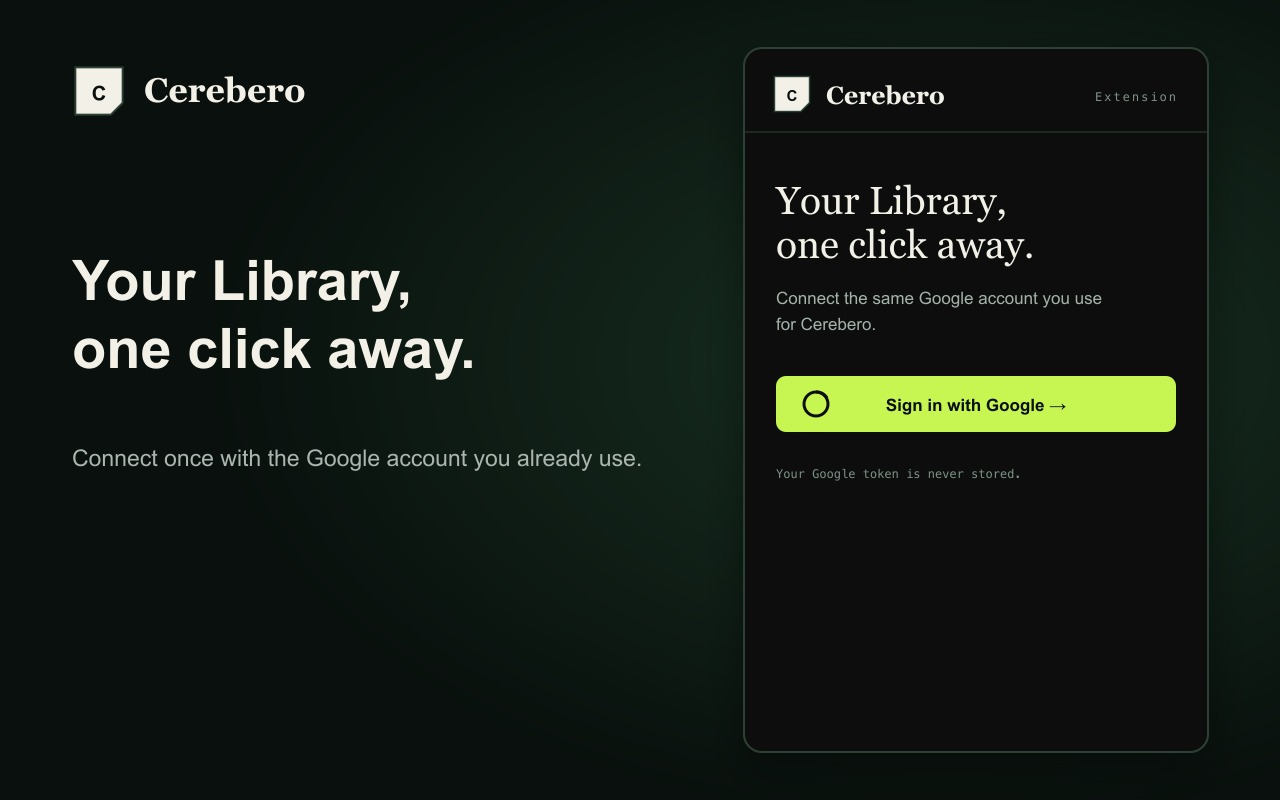
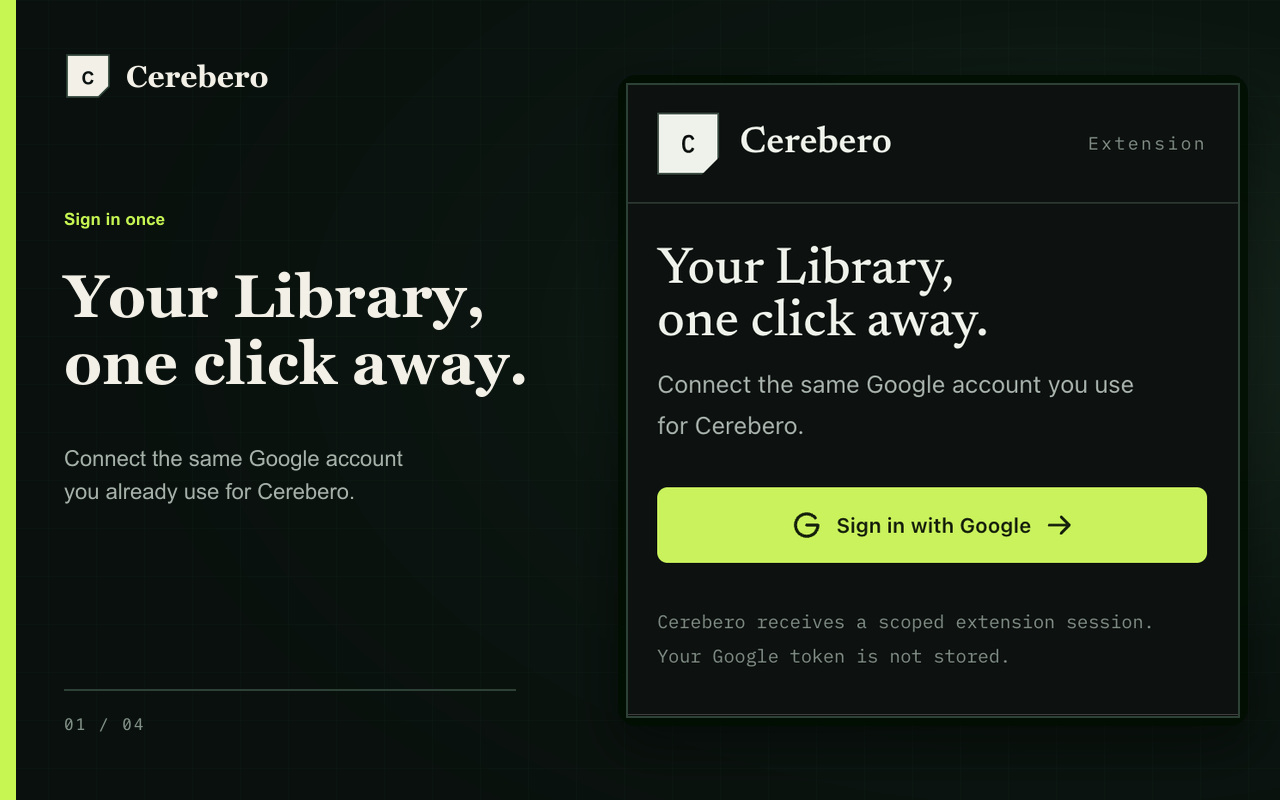
updated ss

diff --git a/apps/extension/scripts/generate-assets.ts b/apps/extension/scripts/generate-assets.ts
@@ -7,6 +7,7 @@ import sharp from 'sharp'
 const extensionRoot = resolve(dirname(fileURLToPath(import.meta.url)), '..')
 const faviconPath = resolve(extensionRoot, '../web/public/favicon.svg')
 const brandingDirectory = resolve(extensionRoot, 'assets/branding')
+const storeSourceDirectory = resolve(extensionRoot, 'assets/store-sources')
 const iconDirectory = resolve(extensionRoot, 'public/icon')
 const screenshotDirectory = resolve(extensionRoot, 'store-assets/screenshots')
 const storeAssetDirectory = resolve(extensionRoot, 'store-assets')
@@ -40,126 +41,162 @@ function brandMark(x: number, y: number, size: number): string {
   `
 }
 
-function screenshotShell({
+type StoreScreenshot = {
+  eyebrow: string
+  headline: [string, string]
+  output: string
+  source: string
+  subline: [string, string]
+}
+
+const storeScreenshots: StoreScreenshot[] = [
+  {
+    eyebrow: 'Sign in once',
+    headline: ['Your Library,', 'one click away.'],
+    output: 'cerebero-store-1.jpg',
+    source: 'signed-out.png',
+    subline: [
+      'Connect the same Google account',
+      'you already use for Cerebero.',
+    ],
+  },
+  {
+    eyebrow: 'Capture with context',
+    headline: ['Keep the page.', 'Keep the context.'],
+    output: 'cerebero-store-2.jpg',
+    source: 'capture.png',
+    subline: [
+      'Review the title and add a note',
+      'before it reaches your Library.',
+    ],
+  },
+  {
+    eyebrow: 'Done without leaving the tab',
+    headline: ['Saved now.', 'Ready later.'],
+    output: 'cerebero-store-3.jpg',
+    source: 'saved.png',
+    subline: ['Open the Item in Cerebero,', 'or keep moving through your day.'],
+  },
+  {
+    eyebrow: 'Clear by design',
+    headline: ['Only saves', 'what you choose.'],
+    output: 'cerebero-store-4.jpg',
+    source: 'unsupported.png',
+    subline: [
+      'Browser-internal pages are rejected',
+      'before anything is sent.',
+    ],
+  },
+]
+
+function storeScreenshotBackdrop({
+  eyebrow,
   headline,
-  popup,
+  index,
+  screenshot,
   subline,
-}: {
-  headline: string[]
-  popup: string
-  subline: string
+}: Omit<StoreScreenshot, 'output' | 'source'> & {
+  index: number
+  screenshot: { height: number; width: number; x: number; y: number }
 }): string {
   return `
     <svg xmlns="http://www.w3.org/2000/svg" width="1280" height="800" viewBox="0 0 1280 800">
       <defs>
-        <radialGradient id="glow" cx="74%" cy="45%" r="58%">
-          <stop offset="0" stop-color="#183122" />
+        <radialGradient id="glow" cx="83%" cy="42%" r="76%">
+          <stop offset="0" stop-color="#17291f" />
+          <stop offset="0.55" stop-color="#0b1510" />
           <stop offset="1" stop-color="${palette.canvas}" />
         </radialGradient>
+        <pattern id="grid" width="48" height="48" patternUnits="userSpaceOnUse">
+          <path d="M 48 0 L 0 0 0 48" fill="none" stroke="#274035" stroke-width="1" opacity="0.16" />
+        </pattern>
         <filter id="shadow" x="-30%" y="-30%" width="160%" height="160%">
-          <feDropShadow dx="0" dy="18" stdDeviation="22" flood-color="#000" flood-opacity="0.38" />
+          <feDropShadow dx="0" dy="20" stdDeviation="24" flood-color="#000" flood-opacity="0.48" />
         </filter>
       </defs>
       <rect width="1280" height="800" fill="url(#glow)" />
-      ${brandMark(72, 64, 54)}
-      <text x="144" y="102" fill="${palette.primary}" font-family="Georgia, serif"
-        font-size="34" font-weight="700">Cerebero</text>
-      ${headline
-        .map(
-          (line, index) =>
-            `<text x="72" y="${300 + index * 68}" fill="${palette.primary}" font-family="Arial, Helvetica, sans-serif" font-size="56" font-weight="700">${line}</text>`,
-        )
-        .join('')}
-      <text x="72" y="${330 + headline.length * 68}" fill="#abb6af"
-        font-family="Arial, Helvetica, sans-serif" font-size="23" font-weight="500">${subline}</text>
-      <g filter="url(#shadow)">
-        <rect x="744" y="48" width="464" height="704" rx="18" fill="${palette.canvas}"
-          stroke="${palette.stroke}" stroke-width="2" />
-        ${brandMark(772, 74, 40)}
-        <text x="826" y="104" fill="${palette.primary}" font-family="Georgia, serif"
-          font-size="25" font-weight="700">Cerebero</text>
-        <text x="1176" y="101" fill="${palette.muted}" font-family="monospace"
-          font-size="12" text-anchor="end" letter-spacing="2">Extension</text>
-        <line x1="744" y1="132" x2="1208" y2="132" stroke="${palette.stroke}" />
-        ${popup}
-      </g>
+      <rect width="1280" height="800" fill="url(#grid)" />
+      <path d="M 0 0 H 16 V 800 H 0 Z" fill="${palette.accent}" />
+      ${brandMark(64, 52, 48)}
+      <text x="126" y="87" fill="${palette.primary}" font-family="Georgia, serif"
+        font-size="30" font-weight="700">Cerebero</text>
+      <text x="64" y="225" fill="${palette.accent}" font-family="Arial, Helvetica, sans-serif"
+        font-size="17" font-weight="700">${eyebrow}</text>
+      <text x="64" y="317" fill="${palette.primary}" font-family="Georgia, serif"
+        font-size="60" font-weight="600">${headline[0]}</text>
+      <text x="64" y="384" fill="${palette.primary}" font-family="Georgia, serif"
+        font-size="60" font-weight="600">${headline[1]}</text>
+      <text x="64" y="466" fill="#a7b2ab" font-family="Arial, Helvetica, sans-serif"
+        font-size="22">${subline[0]}</text>
+      <text x="64" y="499" fill="#a7b2ab" font-family="Arial, Helvetica, sans-serif"
+        font-size="22">${subline[1]}</text>
+      <line x1="64" y1="690" x2="516" y2="690" stroke="${palette.stroke}" stroke-width="2" />
+      <text x="64" y="730" fill="${palette.muted}" font-family="monospace" font-size="16"
+        letter-spacing="2">0${index + 1} / 04</text>
+      <rect x="${screenshot.x - 10}" y="${screenshot.y - 10}" width="${screenshot.width + 20}"
+        height="${screenshot.height + 20}" rx="18" fill="#050806" opacity="0.85" filter="url(#shadow)" />
     </svg>
   `
 }
 
-function signedOutPopup(): string {
+function screenshotBorder({
+  height,
+  width,
+  x,
+  y,
+}: {
+  height: number
+  width: number
+  x: number
+  y: number
+}): string {
   return `
-    <text x="776" y="214" fill="${palette.primary}" font-family="Georgia, serif"
-      font-size="39" font-weight="500">Your Library,</text>
-    <text x="776" y="258" fill="${palette.primary}" font-family="Georgia, serif"
-      font-size="39" font-weight="500">one click away.</text>
-    <text x="776" y="304" fill="#a6b1aa" font-family="Arial, Helvetica, sans-serif"
-      font-size="17">Connect the same Google account you use</text>
-    <text x="776" y="330" fill="#a6b1aa" font-family="Arial, Helvetica, sans-serif"
-      font-size="17">for Cerebero.</text>
-    <rect x="776" y="376" width="400" height="56" rx="10" fill="${palette.accent}" />
-    <circle cx="816" cy="404" r="12" fill="none" stroke="${palette.canvas}" stroke-width="3" />
-    <path d="M 816 392 A 12 12 0 0 1 827 398" fill="none" stroke="${palette.canvas}" stroke-width="3" />
-    <text x="976" y="411" fill="${palette.canvas}" font-family="Arial, Helvetica, sans-serif"
-      font-size="17" font-weight="700" text-anchor="middle">Sign in with Google  →</text>
-    <text x="776" y="478" fill="${palette.muted}" font-family="monospace" font-size="12">
-      Your Google token is never stored.
-    </text>
+    <svg xmlns="http://www.w3.org/2000/svg" width="1280" height="800" viewBox="0 0 1280 800">
+      <rect x="${x - 1}" y="${y - 1}" width="${width + 2}" height="${height + 2}"
+        fill="none" stroke="${palette.stroke}" stroke-width="2" />
+    </svg>
   `
 }
 
-function capturePopup(): string {
-  return `
-    <rect x="776" y="166" width="40" height="40" rx="9" fill="${palette.canvasSoft}" />
-    <path d="M 788 186 L 795 179 A 6 6 0 0 1 804 188 L 796 196 A 6 6 0 0 1 787 187"
-      fill="none" stroke="#aeb9b2" stroke-width="2.5" stroke-linecap="round" />
-    <text x="832" y="190" fill="${palette.primary}" font-family="Georgia, serif"
-      font-size="30" font-weight="500">Save this page.</text>
-    <text x="832" y="212" fill="${palette.muted}" font-family="monospace" font-size="11">
-      https://example.com/useful-essay
-    </text>
-    <text x="776" y="254" fill="${palette.primary}" font-family="Arial, Helvetica, sans-serif"
-      font-size="13" font-weight="700">Title</text>
-    <rect x="776" y="266" width="400" height="48" rx="9" fill="#07100c" stroke="${palette.stroke}" />
-    <text x="792" y="296" fill="${palette.primary}" font-family="Arial, Helvetica, sans-serif" font-size="15">
-      A useful essay
-    </text>
-    <text x="776" y="348" fill="${palette.primary}" font-family="Arial, Helvetica, sans-serif"
-      font-size="13" font-weight="700">Note <tspan fill="${palette.muted}" font-weight="400">optional</tspan></text>
-    <rect x="776" y="360" width="400" height="134" rx="9" fill="#07100c" stroke="${palette.stroke}" />
-    <text x="792" y="390" fill="#a6b1aa" font-family="Arial, Helvetica, sans-serif" font-size="15">
-      Worth revisiting for the section on focus.
-    </text>
-    <rect x="776" y="528" width="400" height="54" rx="10" fill="${palette.accent}" />
-    <text x="976" y="562" fill="${palette.canvas}" font-family="Arial, Helvetica, sans-serif"
-      font-size="17" font-weight="700" text-anchor="middle">Save to Library</text>
-    <line x1="744" y1="670" x2="1208" y2="670" stroke="${palette.stroke}" />
-    <text x="776" y="708" fill="${palette.muted}" font-family="monospace" font-size="11">
-      shubham@example.com
-    </text>
-  `
-}
+async function writeStoreScreenshot(
+  screenshot: StoreScreenshot,
+  index: number,
+): Promise<void> {
+  const source = await sharp(resolve(storeSourceDirectory, screenshot.source))
+    .resize({
+      fit: 'inside',
+      height: 700,
+      width: 610,
+      withoutEnlargement: false,
+    })
+    .png()
+    .toBuffer()
+  const metadata = await sharp(source).metadata()
+  if (!metadata.width || !metadata.height) {
+    throw new Error(`Could not read ${screenshot.source} dimensions.`)
+  }
 
-function capturedPopup(): string {
-  return `
-    <rect x="776" y="176" width="400" height="290" rx="14" fill="${palette.canvasRaised}"
-      stroke="${palette.stroke}" />
-    <circle cx="808" cy="212" r="13" fill="${palette.accent}" />
-    <path d="M 801 212 L 806 217 L 816 207" fill="none" stroke="${palette.canvas}"
-      stroke-width="3" stroke-linecap="round" stroke-linejoin="round" />
-    <text x="800" y="275" fill="${palette.primary}" font-family="Georgia, serif"
-      font-size="32" font-weight="500">Saved to your Library.</text>
-    <text x="800" y="320" fill="#a6b1aa" font-family="Arial, Helvetica, sans-serif"
-      font-size="16">A useful essay</text>
-    <text x="800" y="406" fill="${palette.accent}" font-family="Arial, Helvetica, sans-serif"
-      font-size="15" font-weight="700">View Item  ↗</text>
-    <text x="1148" y="406" fill="#a6b1aa" font-family="Arial, Helvetica, sans-serif"
-      font-size="14" font-weight="600" text-anchor="end">Capture another</text>
-    <line x1="744" y1="670" x2="1208" y2="670" stroke="${palette.stroke}" />
-    <text x="776" y="708" fill="${palette.muted}" font-family="monospace" font-size="11">
-      shubham@example.com
-    </text>
-  `
+  const placement = {
+    height: metadata.height,
+    width: metadata.width,
+    x: 1280 - metadata.width - 42,
+    y: Math.round((800 - metadata.height) / 2),
+  }
+  const backdrop = storeScreenshotBackdrop({
+    eyebrow: screenshot.eyebrow,
+    headline: screenshot.headline,
+    index,
+    screenshot: placement,
+    subline: screenshot.subline,
+  })
+
+  await sharp(Buffer.from(backdrop))
+    .composite([
+      { input: source, left: placement.x, top: placement.y },
+      { input: Buffer.from(screenshotBorder(placement)), left: 0, top: 0 },
+    ])
+    .jpeg({ chromaSubsampling: '4:4:4', quality: 94 })
+    .toFile(resolve(screenshotDirectory, screenshot.output))
 }
 
 function smallPromoSvg(): string {
@@ -186,10 +223,6 @@ function smallPromoSvg(): string {
 
 async function writePng(svg: string, path: string): Promise<void> {
   await sharp(Buffer.from(svg)).png().toFile(path)
-}
-
-async function writeJpeg(svg: string, path: string): Promise<void> {
-  await sharp(Buffer.from(svg)).jpeg({ quality: 92 }).toFile(path)
 }
 
 await Promise.all([
@@ -235,30 +268,7 @@ await Promise.all(
 
 await Promise.all([
   writePng(smallPromoSvg(), resolve(storeAssetDirectory, 'small-promo.png')),
-  writeJpeg(
-    screenshotShell({
-      headline: ['Your Library,', 'one click away.'],
-      popup: signedOutPopup(),
-      subline: 'Connect once with the Google account you already use.',
-    }),
-    resolve(screenshotDirectory, 'cerebero-store-1.jpg'),
-  ),
-  writeJpeg(
-    screenshotShell({
-      headline: ['Capture without', 'breaking focus.'],
-      popup: capturePopup(),
-      subline: 'Keep the page, title, and the note that gives it context.',
-    }),
-    resolve(screenshotDirectory, 'cerebero-store-2.jpg'),
-  ),
-  writeJpeg(
-    screenshotShell({
-      headline: ['Saved now.', 'Ready later.'],
-      popup: capturedPopup(),
-      subline: 'Send the page straight to your private Cerebero Library.',
-    }),
-    resolve(screenshotDirectory, 'cerebero-store-3.jpg'),
-  ),
+  ...storeScreenshots.map(writeStoreScreenshot),
 ])
 
 console.info(

diff --git a/apps/extension/scripts/verify-assets.ts b/apps/extension/scripts/verify-assets.ts
@@ -17,6 +17,7 @@ const expectedAssets = [
   ['store-assets/screenshots/cerebero-store-1.jpg', 1_280, 800],
   ['store-assets/screenshots/cerebero-store-2.jpg', 1_280, 800],
   ['store-assets/screenshots/cerebero-store-3.jpg', 1_280, 800],
+  ['store-assets/screenshots/cerebero-store-4.jpg', 1_280, 800],
 ] as const
 
 await Promise.all(
